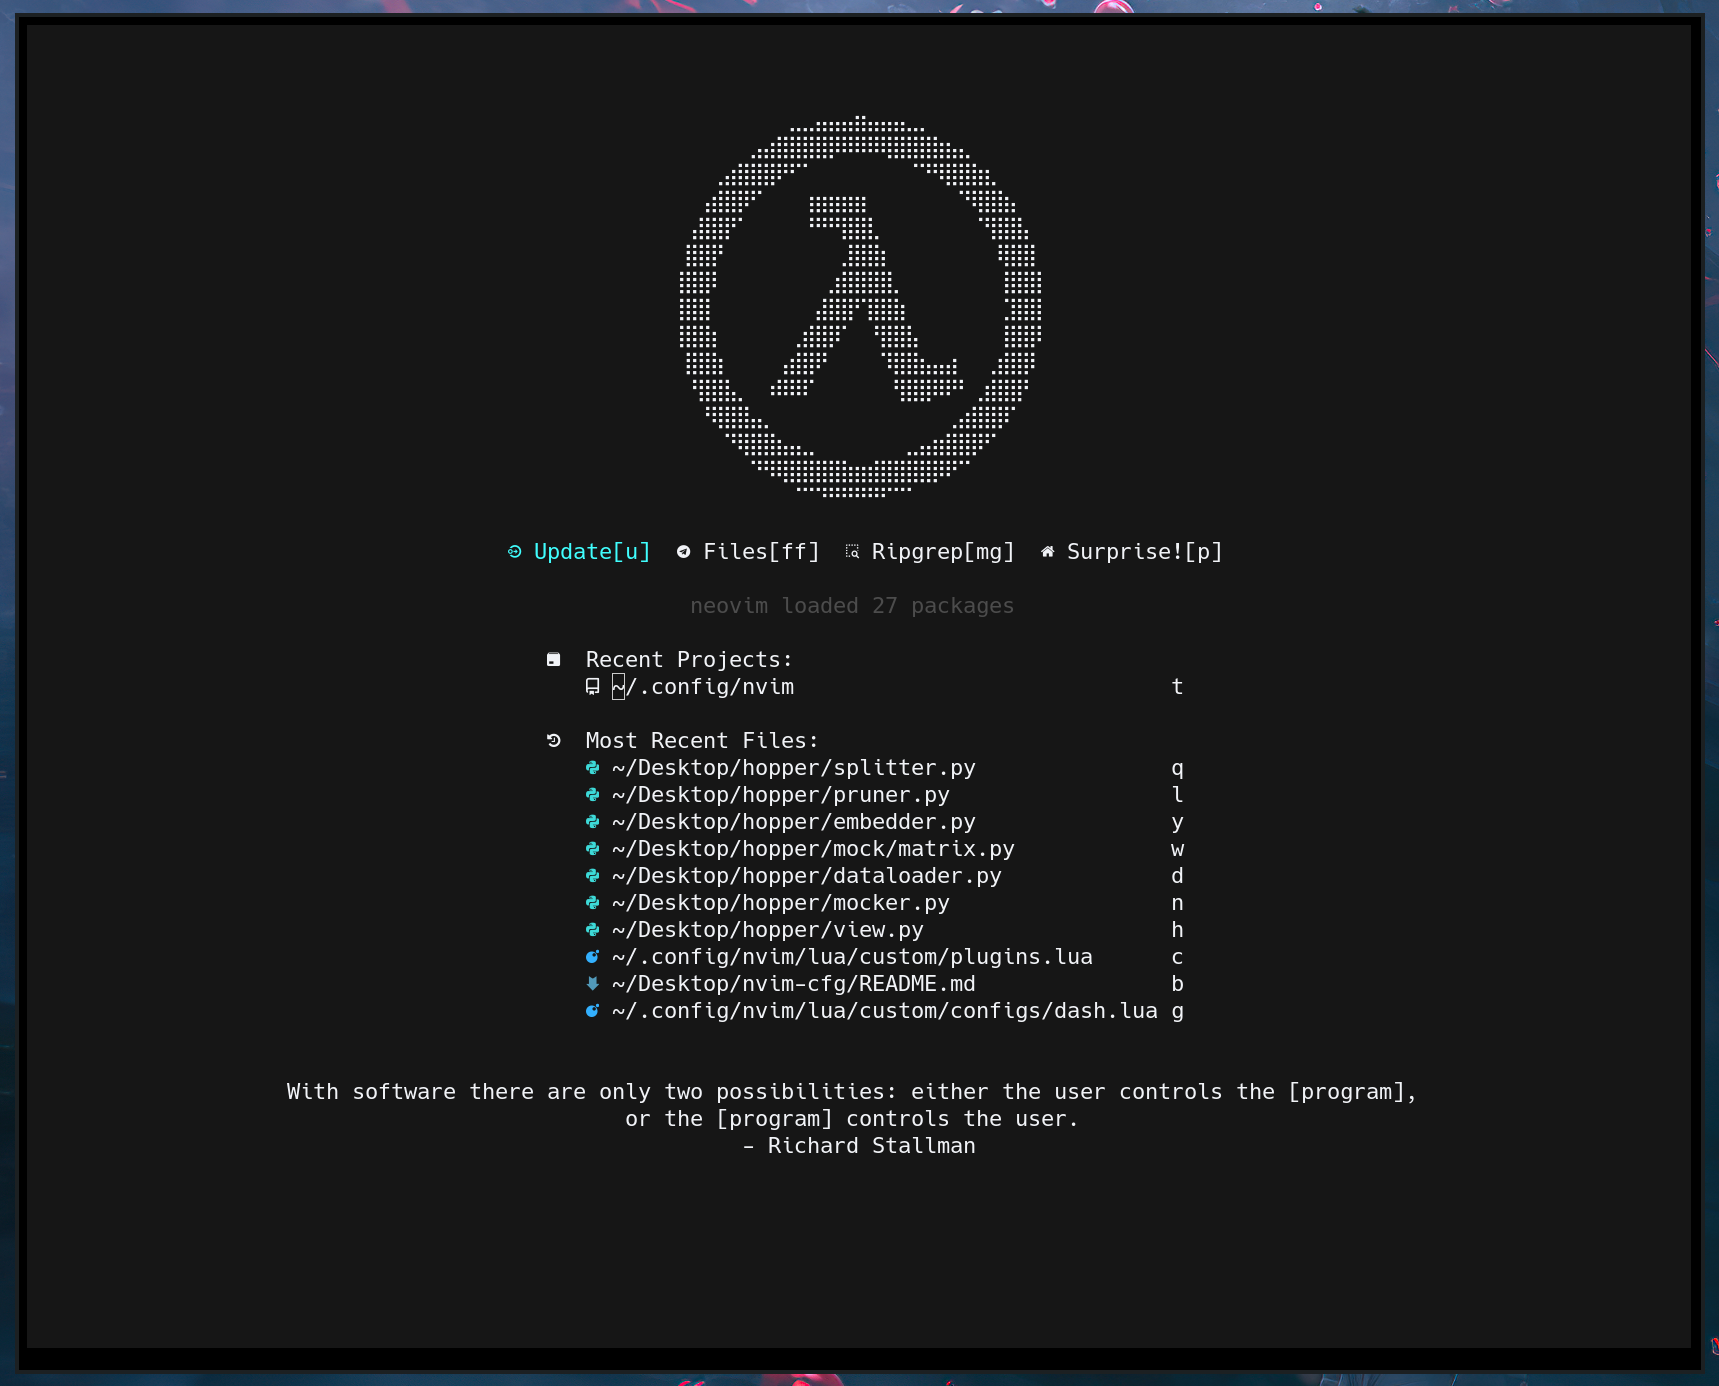
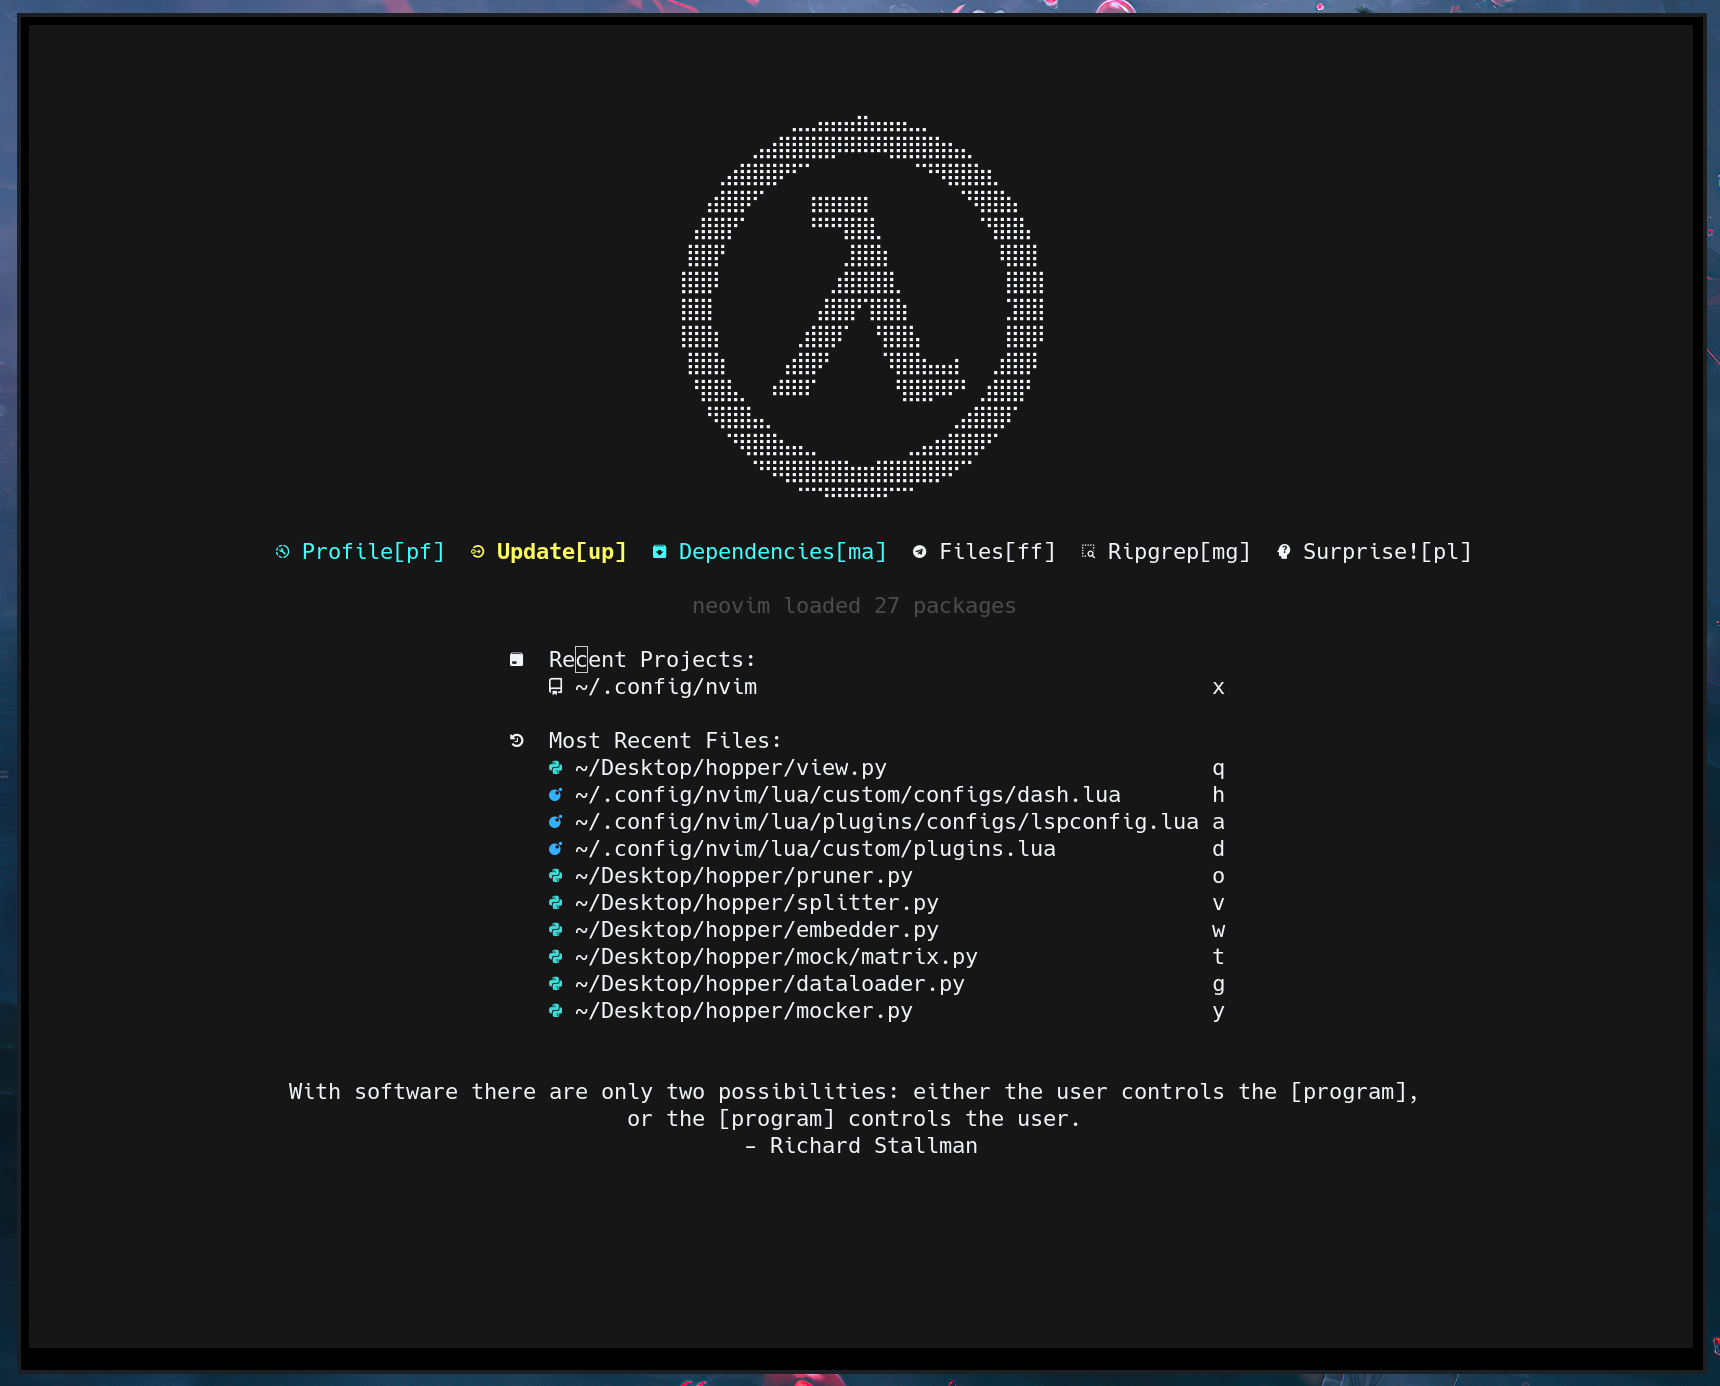
basic lsp pre-configs

diff --git a/README.md b/README.md
@@ -1,17 +1,23 @@
 # Core Components
-- Bootstrapped from [NvChad](https://github.com/nvchad/nvchad):
+- Bootstrapped from [NvChad](https://github.com/nvchad/nvchad), so we get pre-configured plugins like:
     - [Telescope](https://github.com/nvim-telescope/telescope.nvim)
     - [NvimTree](https://github.com/nvim-tree/nvim-tree.lua)
     - [Lazy](https://github.com/folke/lazy.nvim)
     - [TreeSitter](https://github.com/nvim-treesitter/nvim-treesitter)
-    - etc ...
-- Custom dashboard using [dashboard.nvim](https://github.com/nvimdev/dashboard-nvim).
+    - [NvTerm](https://github.com/NvChad/nvterm)
+- Additional features include:
+    - Custom dashboard using [dashboard.nvim](https://github.com/nvimdev/dashboard-nvim).
+    - Pre-configured LSPs for _Rust_, _Python_ and _TypeScript_.
+    - [copilot.vim](https://github.com/github/copilot.vim) installed _by default_.
 
 ### _oxocarbon_
 [nyoom-engineering](https://github.com/nyoom-engineering)'s [oxocarbon](https://github.com/nyoom-engineering/oxocarbon.nvim) theme:
 <img src="fig/theme.png">
 
+> [NvChad](https://github.com/nvchad/nvchad)'s Terminal-integration with [NvTerm](https://github.com/NvChad/nvterm).
+
 ### Dashboard
+Overides _NvChad_'s start screen with a more powerful interface using [dashboard.nvim](https://github.com/nvimdev/dashboard-nvim).
 
 <img src="fig/dash.png"/>
 
@@ -20,9 +26,23 @@ The dashboard has a surprise in there, but I'm going to spoil it anyway:
 
 <img src="fig/surprise.png"/>
 
-> The `p` key maps to `Telescope planets`. 
+> The `pl` key maps to `Telescope planets`. 
 
-Of course, there a more useful hotkeys in the dashboard as well. `u` for updating packages with [Lazy](https://github.com/folke/lazy.nvim), `ff` for `Telescope find_files`, and `mg` for `Telescope live_grep`.
+Of course, there a more useful hotkeys in the dashboard as well.
+- `pf` for inspecting `Lazy profile`
+- `up` for updating packages with [Lazy](https://github.com/folke/lazy.nvim),
+- `ma` for viewing `Mason` dependencies,
+- `ff` for `Telescope find_files`,
+- `mg` for `Telescope live_grep`.
 
-<img src="fig/tele.png">
+<img src="fig/tele.png"/>
 
+> Using `mg` from the dashboard.
+
+### Pre-configured LSPs
+For the following languages,
+- _Rust_
+- _Python_
+- _TypeScript_
+
+<img src="fig/lsp.png">
